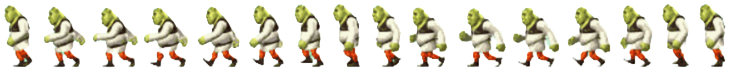
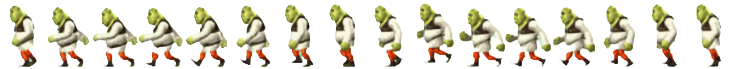
shrek the shop keeper working now

diff --git a/Physics/Source/SceneBase.cpp b/Physics/Source/SceneBase.cpp
@@ -175,43 +175,30 @@ void SceneBase::Init()
 	meshList[GEO_HEALTHBORDER] = MeshBuilder::GenerateQuad("hpborder", Color(1, 1, 1), 1.f);
 	meshList[GEO_HEALTHBORDER]->textureID = LoadTGA("Image//HpBorder.tga");
 	// Shopkeeper 
-	//meshList[GEO_SHREK] = MeshBuilder::GenerateSpriteAnimation("Shrek", 1, 16);
-	//meshList[GEO_SHREK]->textureID = LoadTexture("Image//shopkeepershrek.png", false);
-	//meshList[GEO_SHREK]->material.kAmbient.Set(1, 1, 1);
-	//SpriteAnimation* Fdemonsprite = dynamic_cast<SpriteAnimation*>(meshList[GEO_SHREK]);
-	//Fdemonsprite->AddAnimation("IDLE", 0, 16);
+	meshList[GEO_SHREK] = MeshBuilder::GenerateSpriteAnimation("Shrek", 1, 16);
+	meshList[GEO_SHREK]->textureID = LoadTexture("Image//shopkeepershrek.png", false);
+	meshList[GEO_SHREK]->material.kAmbient.Set(1, 1, 1);
+	SpriteAnimation* ShrekSprite = dynamic_cast<SpriteAnimation*>(meshList[GEO_SHREK]);
+	ShrekSprite->AddAnimation("IDLE", 0, 16);
 
-	//meshList[GEO_SHREK_LEFT] = MeshBuilder::GenerateSpriteAnimation("Shrek Left", 1, 16);
-	//meshList[GEO_SHREK_LEFT]->textureID = LoadTexture("Image//shopkeepershrek.png", true);
-	//meshList[GEO_SHREK_LEFT]->material.kAmbient.Set(1, 1, 1);
-	//SpriteAnimation* FdemonspriteLeft = dynamic_cast<SpriteAnimation*>(meshList[GEO_SHREK_LEFT]);
-	//FdemonspriteLeft->AddAnimation("IDLE", 0, 16);
-
-	// Shopkeeper 
-	meshList[GEO_FDEMON] = MeshBuilder::GenerateSpriteAnimation("Shrek", 1, 16);
-	meshList[GEO_FDEMON]->textureID = LoadTexture("Image//shopkeepershrek.png", false);
-	meshList[GEO_FDEMON]->material.kAmbient.Set(1, 1, 1);
-	SpriteAnimation* Fdemonsprite = dynamic_cast<SpriteAnimation*>(meshList[GEO_FDEMON]);
-	Fdemonsprite->AddAnimation("IDLE", 0, 16);
-
-	meshList[GEO_FDEMON_LEFT] = MeshBuilder::GenerateSpriteAnimation("Shrek Left", 1, 16);
-	meshList[GEO_FDEMON_LEFT]->textureID = LoadTexture("Image//shopkeepershrek.png", true);
-	meshList[GEO_FDEMON_LEFT]->material.kAmbient.Set(1, 1, 1);
-	SpriteAnimation* FdemonspriteLeft = dynamic_cast<SpriteAnimation*>(meshList[GEO_FDEMON_LEFT]);
-	FdemonspriteLeft->AddAnimation("IDLE", 0, 16);
+	meshList[GEO_SHREK_LEFT] = MeshBuilder::GenerateSpriteAnimation("Shrek Left", 1, 16);
+	meshList[GEO_SHREK_LEFT]->textureID = LoadTexture("Image//shopkeepershrek.png", true);
+	meshList[GEO_SHREK_LEFT]->material.kAmbient.Set(1, 1, 1);
+	SpriteAnimation* ShrekSpriteLeft = dynamic_cast<SpriteAnimation*>(meshList[GEO_SHREK_LEFT]);
+	ShrekSpriteLeft->AddAnimation("IDLE", 0, 16);
 
 	// Enemy types
-	//meshList[GEO_FDEMON] = MeshBuilder::GenerateSpriteAnimation("Fdemon", 1, 6);
-	//meshList[GEO_FDEMON]->textureID = LoadTexture("Image//FlameDemon.png", false);
-	//meshList[GEO_FDEMON]->material.kAmbient.Set(1, 1, 1);
-	//SpriteAnimation* Fdemonsprite = dynamic_cast<SpriteAnimation*>(meshList[GEO_FDEMON]);
-	//Fdemonsprite->AddAnimation("IDLE", 0, 6);
+	meshList[GEO_FDEMON] = MeshBuilder::GenerateSpriteAnimation("Fdemon", 1, 6);
+	meshList[GEO_FDEMON]->textureID = LoadTexture("Image//FlameDemon.png", false);
+	meshList[GEO_FDEMON]->material.kAmbient.Set(1, 1, 1);
+	SpriteAnimation* Fdemonsprite = dynamic_cast<SpriteAnimation*>(meshList[GEO_FDEMON]);
+	Fdemonsprite->AddAnimation("IDLE", 0, 6);
 
-	//meshList[GEO_FDEMON_LEFT] = MeshBuilder::GenerateSpriteAnimation("Fdemon Left", 1, 6);
-	//meshList[GEO_FDEMON_LEFT]->textureID = LoadTexture("Image//FlameDemon.png", true);
-	//meshList[GEO_FDEMON_LEFT]->material.kAmbient.Set(1, 1, 1);
-	//SpriteAnimation* FdemonspriteLeft = dynamic_cast<SpriteAnimation*>(meshList[GEO_FDEMON_LEFT]);
-	//FdemonspriteLeft->AddAnimation("IDLE", 0, 6);
+	meshList[GEO_FDEMON_LEFT] = MeshBuilder::GenerateSpriteAnimation("Fdemon Left", 1, 6);
+	meshList[GEO_FDEMON_LEFT]->textureID = LoadTexture("Image//FlameDemon.png", true);
+	meshList[GEO_FDEMON_LEFT]->material.kAmbient.Set(1, 1, 1);
+	SpriteAnimation* FdemonspriteLeft = dynamic_cast<SpriteAnimation*>(meshList[GEO_FDEMON_LEFT]);
+	FdemonspriteLeft->AddAnimation("IDLE", 0, 6);
 
 	meshList[GEO_BDEMON] = MeshBuilder::GenerateSpriteAnimation("Bdemon", 1, 6);
 	meshList[GEO_BDEMON]->textureID = LoadTexture("Image//Bdemon.png", false);

diff --git a/Physics/Source/Assignment1.cpp b/Physics/Source/Assignment1.cpp
@@ -70,6 +70,7 @@ void Assignment1::Init()
 	ringauraTimer = 0;
 	explosionTimer = 0;
 
+	shopactive = false;
 	fireRate = 5;
 	fireRateCost = 10;
 	damageUpCost = 10;
@@ -278,6 +279,15 @@ void Assignment1::Update(double dt)
 	HeroSprite = dynamic_cast<SpriteAnimation*>(meshList[GEO_HERO_LEFT]);
 	HeroSprite->PlayAnimation("IDLE", -1, 0.5f);
 	HeroSprite->Update(dt);
+
+	// Shrek shopkeeper
+	ShrekSprite = dynamic_cast<SpriteAnimation*>(meshList[GEO_SHREK]);
+	ShrekSprite->PlayAnimation("IDLE", -1, 0.8f);
+	ShrekSprite->Update(dt);
+
+	ShrekSpriteLeft = dynamic_cast<SpriteAnimation*>(meshList[GEO_SHREK_LEFT]);
+	ShrekSpriteLeft->PlayAnimation("IDLE", -1, 0.8f);
+	ShrekSpriteLeft->Update(dt);
 
 	// Ghost
 	GhostSprite = dynamic_cast<SpriteAnimation*>(meshList[GEO_GHOST]);
@@ -617,6 +627,7 @@ void Assignment1::Update(double dt)
 
 
 			worldPosY = m_worldHeight - (worldPosY)  - 450;
+			//worldPosX += 5;
 
 			m_ship->angle = atan2(m_ship->pos.y - worldPosY, m_ship->pos.x - worldPosX);
 			m_ship->angle = (m_ship->angle / Math::PI) * 180.0;
@@ -703,12 +714,6 @@ void Assignment1::Update(double dt)
 			}
 		}
 
-		// Access upgrade screen
-		if (Application::IsKeyPressed('E'))
-		{
-			upgradeScreen = true;
-		}
-
 		// Wave count increases after a certain period
 		float diff = elapsedTime - waveTimer;
 		if (diff > 15)
@@ -724,15 +729,23 @@ void Assignment1::Update(double dt)
 
 		// Randomised enemy spawns
 		diff = elapsedTime - prevElapsedAsteroid;
-		if (diff > 1 && m_objectCount < maxEnemyCount && tempSpawnCount < 1)
+		if (diff > 1 && tempSpawnCount < 1)
 		{
 			for (int i = 0; i < 1; ++i)
 			{
 				GameObject* go = FetchGO();
 				int randomEnemy = rand() % 100;
 
+				if (randomEnemy < 100 && waveCount >= 4 && shopactive == false)
+				{
+					go->type = GameObject::GO_SHOP;
+					go->scale.Set(15, 15, 10);
+					go->prevEnemyBullet = elapsedTime;
+					go->hitboxSizeDivider = 1;
+					shopactive = true;
+				}
 				// Spawn shooting demon
-				if (randomEnemy < 10 && waveCount >= 4)
+				else if (randomEnemy < 10 && waveCount >= 4)
 				{
 					go->type = GameObject::GO_BDEMON;
 					go->hp = round(7 * hpFactor);
@@ -774,7 +787,7 @@ void Assignment1::Update(double dt)
 				go->angle = 0;
 				go->maxHP = go->hp;
 
-				// This spawn asteroids from the 4 sides
+				// This spawn enemies from the 4 sides
 				int random = rand() % 4;
 				switch (random)
 				{
@@ -792,7 +805,7 @@ void Assignment1::Update(double dt)
 					break;
 				}
 				prevElapsedAsteroid = elapsedTime;
-				m_objectCount++;
+				//m_objectCount++;
 			}
 		}
 
@@ -1248,7 +1261,8 @@ void Assignment1::Update(double dt)
 					go->type == GameObject::GO_WORMHEAD ||
 					go->type == GameObject::GO_WORMBODY1 ||
 					go->type == GameObject::GO_WORMBODY2 ||
-					go->type == GameObject::GO_WORMTAIL
+					go->type == GameObject::GO_WORMTAIL ||
+					go->type == GameObject::GO_SHOP
 					)
 				{
 					Collision(go);
@@ -1645,6 +1659,12 @@ void Assignment1::Collision(GameObject* go)
 				tripleShot = true;
 				tripleShotTimer = 6;
 			}
+		}
+
+		// Access upgrade screen
+		if (Application::IsKeyPressed('E') && go->type == GameObject::GO_SHOP)
+		{
+			upgradeScreen = true;
 		}
 
 		if (go->type == GameObject::GO_TRIPLESHOT ||
@@ -2599,6 +2619,33 @@ void Assignment1::RenderGO(GameObject* go)
 		}
 		modelStack.PopMatrix();
 		break;
+
+
+		case GameObject::GO_SHOP:
+			// Move towards player
+			go->direction = m_ship->pos - Vector3(go->pos.x, go->pos.y, go->pos.z);
+			go->direction = go->direction.Normalized();
+			go->vel = (go->direction * 40);
+
+			modelStack.PushMatrix();
+			modelStack.Translate(go->pos.x, go->pos.y, go->pos.z + 3);
+			modelStack.Scale(go->scale.x, go->scale.y, go->scale.z);
+
+			if (go->facingLeft == true)
+			{
+				RenderMesh(meshList[GEO_SHREK_LEFT], false);
+			}
+			else
+			{
+				modelStack.PushMatrix();
+				modelStack.Rotate(180, 0, 0, 1);
+				RenderMesh(meshList[GEO_SHREK], false);
+				modelStack.PopMatrix();
+			}
+			modelStack.PopMatrix();
+			break;
+
+
 
 	case GameObject::GO_BOSS:
 		// Move towards player

diff --git a/Physics/Source/Assignment1.h b/Physics/Source/Assignment1.h
@@ -52,6 +52,8 @@ protected:
 	float m_worldHeight;
 	GameObject *m_ship;
 	SpriteAnimation* HeroSprite;
+	SpriteAnimation* ShrekSprite;
+	SpriteAnimation* ShrekSpriteLeft;
 	SpriteAnimation* GhostSprite;
 	SpriteAnimation* GhostSpriteLeft;
 	SpriteAnimation* FdemonSprite;
@@ -137,6 +139,7 @@ protected:
 	double ringauraTimer;
 	double iFrames;
 
+	bool shopactive;
 	bool missleUse;
 	bool ringUse;
 	bool bombUse;

diff --git a/Physics/Source/Application.cpp b/Physics/Source/Application.cpp
@@ -101,7 +101,7 @@ void Application::Init()
 	//Create a window and create its OpenGL context
 	m_width = 1920;
 	m_height = 1080;
-	m_window = glfwCreateWindow(m_width, m_height, "Physics", glfwGetPrimaryMonitor(), NULL);
+	m_window = glfwCreateWindow(m_width, m_height, "Physics", /*glfwGetPrimaryMonitor()*/ NULL, NULL);
 
 	//If the window couldn't be created
 	if (!m_window)

diff --git a/Physics/Source/GameObject.h b/Physics/Source/GameObject.h
@@ -34,6 +34,7 @@ struct GameObject
 		GO_SHIP,
 
 		GO_HERO,
+		GO_SHOP,
 		GO_HEAL,
 		GO_CHEST,
 		GO_HEROHEALTH,
